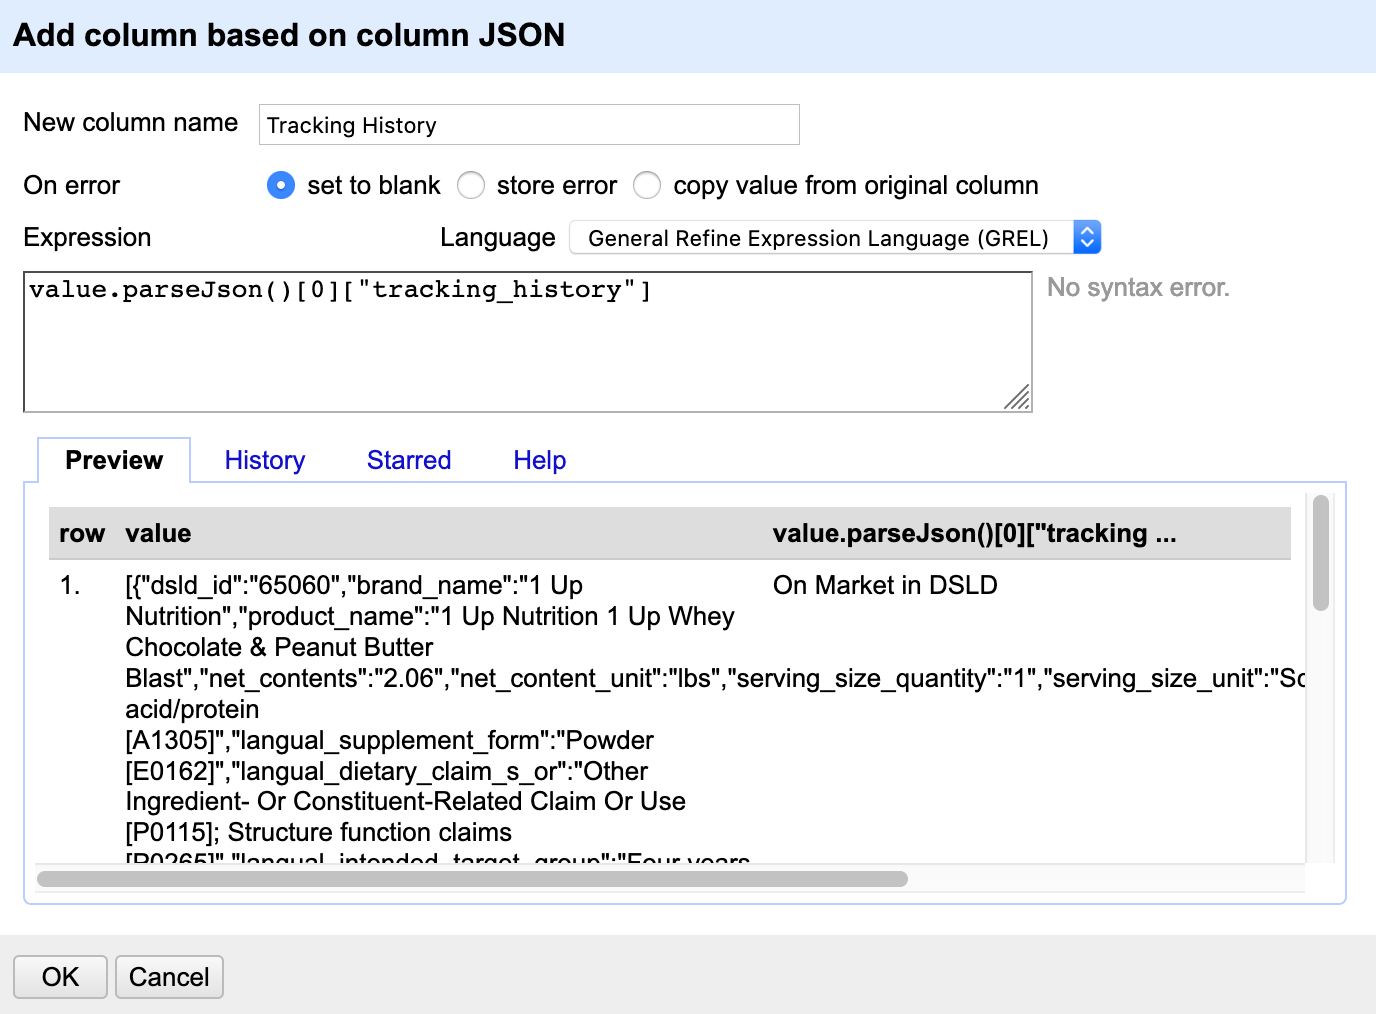
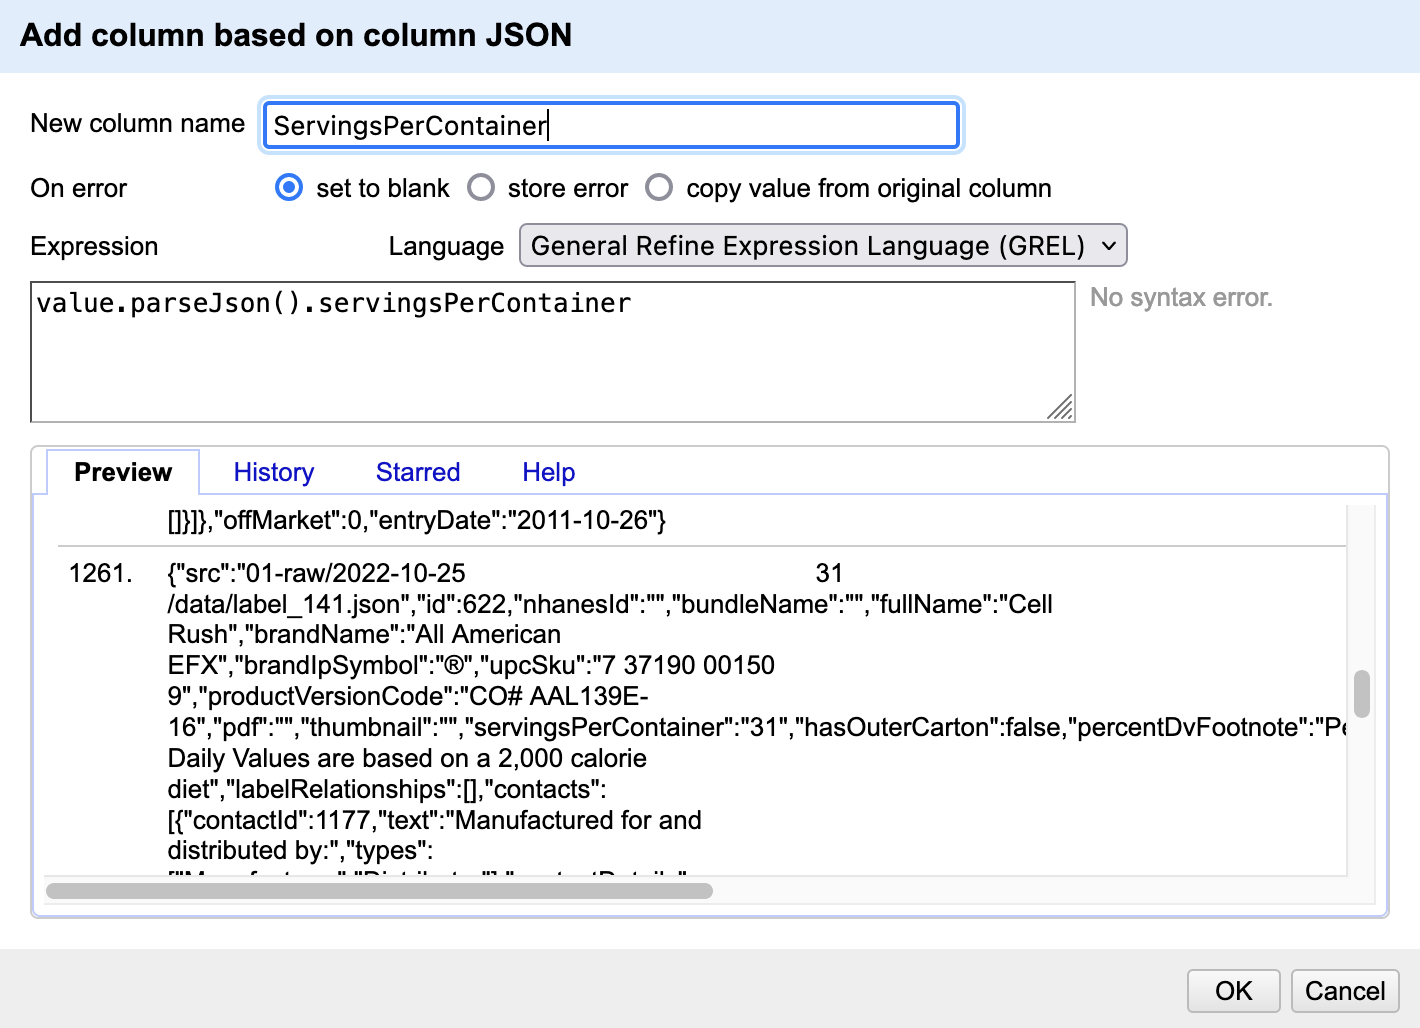
Added images and updated advanced instructions

diff --git a/docs/advanced-openrefine.html b/docs/advanced-openrefine.html
@@ -6,7 +6,7 @@
   <meta http-equiv="X-UA-Compatible" content="IE=edge" />
   <title>Chapter 4 Advanced OpenRefine | Introduction to OpenRefine</title>
   <meta name="description" content="Chapter 4 Advanced OpenRefine | Introduction to OpenRefine" />
-  <meta name="generator" content="bookdown 0.21 and GitBook 2.6.7" />
+  <meta name="generator" content="bookdown 0.24 and GitBook 2.6.7" />
 
   <meta property="og:title" content="Chapter 4 Advanced OpenRefine | Introduction to OpenRefine" />
   <meta property="og:type" content="book" />
@@ -24,7 +24,7 @@
 <meta name="author" content="Ariel Deardorff, Data Services Librarian, UCSF Library" />
 
 
-<meta name="date" content="2020-11-13" />
+<meta name="date" content="2023-02-27" />
 
   <meta name="viewport" content="width=device-width, initial-scale=1" />
   <meta name="apple-mobile-web-app-capable" content="yes" />
@@ -33,7 +33,9 @@
   
 <link rel="prev" href="basic-data-cleaning-with-openrefine.html"/>
 <link rel="next" href="exporting-cleaned-data-and-scripts.html"/>
-<script src="libs/jquery-2.2.3/jquery.min.js"></script>
+<script src="libs/header-attrs-2.11/header-attrs.js"></script>
+<script src="libs/jquery-3.6.0/jquery-3.6.0.min.js"></script>
+<script src="https://cdn.jsdelivr.net/npm/fuse.js@6.4.6/dist/fuse.min.js"></script>
 <link href="libs/gitbook-2.6.7/css/style.css" rel="stylesheet" />
 <link href="libs/gitbook-2.6.7/css/plugin-table.css" rel="stylesheet" />
 <link href="libs/gitbook-2.6.7/css/plugin-bookdown.css" rel="stylesheet" />
@@ -49,9 +51,9 @@
 
 
 
+<link href="libs/anchor-sections-1.0.1/anchor-sections.css" rel="stylesheet" />
+<script src="libs/anchor-sections-1.0.1/anchor-sections.js"></script>
 
-<link href="libs/anchor-sections-1.0/anchor-sections.css" rel="stylesheet" />
-<script src="libs/anchor-sections-1.0/anchor-sections.js"></script>
 
 
 
@@ -67,32 +69,36 @@
       <nav role="navigation">
 
 <ul class="summary">
-<li class="chapter" data-level="1" data-path="index.html"><a href="index.html"><i class="fa fa-check"></i><b>1</b> Welcome</a><ul>
-<li class="chapter" data-level="1.1" data-path="index.html"><a href="index.html#pre-class-prep"><i class="fa fa-check"></i><b>1.1</b> Pre-Class Prep</a></li>
-<li class="chapter" data-level="1.2" data-path="index.html"><a href="index.html#learning-objectives"><i class="fa fa-check"></i><b>1.2</b> Learning Objectives</a></li>
-<li class="chapter" data-level="1.3" data-path="index.html"><a href="index.html#class-data"><i class="fa fa-check"></i><b>1.3</b> Class Data</a></li>
-<li class="chapter" data-level="1.4" data-path="index.html"><a href="index.html#about-the-instructor"><i class="fa fa-check"></i><b>1.4</b> About the Instructor</a></li>
+<li><a href="index.html#welcome" id="toc-welcome"><span class="toc-section-number">1</span> Welcome</a>
+<ul>
+<li><a href="index.html#pre-class-prep" id="toc-pre-class-prep"><span class="toc-section-number">1.1</span> Pre-Class Prep</a></li>
+<li><a href="index.html#learning-objectives" id="toc-learning-objectives"><span class="toc-section-number">1.2</span> Learning Objectives</a></li>
+<li><a href="index.html#class-data" id="toc-class-data"><span class="toc-section-number">1.3</span> Class Data</a></li>
+<li><a href="index.html#about-the-instructor" id="toc-about-the-instructor"><span class="toc-section-number">1.4</span> About the Instructor</a></li>
 </ul></li>
-<li class="chapter" data-level="2" data-path="getting-to-know-our-data-and-tools.html"><a href="getting-to-know-our-data-and-tools.html"><i class="fa fa-check"></i><b>2</b> Getting to Know our Data and Tools</a><ul>
-<li class="chapter" data-level="2.1" data-path="getting-to-know-our-data-and-tools.html"><a href="getting-to-know-our-data-and-tools.html#what-is-openrefine"><i class="fa fa-check"></i><b>2.1</b> What is OpenRefine?</a></li>
-<li class="chapter" data-level="2.2" data-path="getting-to-know-our-data-and-tools.html"><a href="getting-to-know-our-data-and-tools.html#exploring-the-data"><i class="fa fa-check"></i><b>2.2</b> Exploring the Data</a></li>
-<li class="chapter" data-level="2.3" data-path="getting-to-know-our-data-and-tools.html"><a href="getting-to-know-our-data-and-tools.html#uploading-data-into-openrefine"><i class="fa fa-check"></i><b>2.3</b> Uploading Data Into OpenRefine</a></li>
-<li class="chapter" data-level="2.4" data-path="getting-to-know-our-data-and-tools.html"><a href="getting-to-know-our-data-and-tools.html#the-openrefine-interface"><i class="fa fa-check"></i><b>2.4</b> The OpenRefine Interface</a></li>
+<li><a href="getting-to-know-our-data-and-tools.html#getting-to-know-our-data-and-tools" id="toc-getting-to-know-our-data-and-tools"><span class="toc-section-number">2</span> Getting to Know our Data and Tools</a>
+<ul>
+<li><a href="getting-to-know-our-data-and-tools.html#what-is-openrefine" id="toc-what-is-openrefine"><span class="toc-section-number">2.1</span> What is OpenRefine?</a></li>
+<li><a href="getting-to-know-our-data-and-tools.html#exploring-the-data" id="toc-exploring-the-data"><span class="toc-section-number">2.2</span> Exploring the Data</a></li>
+<li><a href="getting-to-know-our-data-and-tools.html#uploading-data-into-openrefine" id="toc-uploading-data-into-openrefine"><span class="toc-section-number">2.3</span> Uploading Data Into OpenRefine</a></li>
+<li><a href="getting-to-know-our-data-and-tools.html#the-openrefine-interface" id="toc-the-openrefine-interface"><span class="toc-section-number">2.4</span> The OpenRefine Interface</a></li>
 </ul></li>
-<li class="chapter" data-level="3" data-path="basic-data-cleaning-with-openrefine.html"><a href="basic-data-cleaning-with-openrefine.html"><i class="fa fa-check"></i><b>3</b> Basic Data Cleaning with OpenRefine</a><ul>
-<li class="chapter" data-level="3.1" data-path="basic-data-cleaning-with-openrefine.html"><a href="basic-data-cleaning-with-openrefine.html#splitting-columns"><i class="fa fa-check"></i><b>3.1</b> Splitting Columns</a></li>
-<li class="chapter" data-level="3.2" data-path="basic-data-cleaning-with-openrefine.html"><a href="basic-data-cleaning-with-openrefine.html#undoredo"><i class="fa fa-check"></i><b>3.2</b> Undo/Redo</a></li>
-<li class="chapter" data-level="3.3" data-path="basic-data-cleaning-with-openrefine.html"><a href="basic-data-cleaning-with-openrefine.html#faceting-data"><i class="fa fa-check"></i><b>3.3</b> Faceting Data</a></li>
-<li class="chapter" data-level="3.4" data-path="basic-data-cleaning-with-openrefine.html"><a href="basic-data-cleaning-with-openrefine.html#trimming-whitespace-and-changing-to-titlecase"><i class="fa fa-check"></i><b>3.4</b> Trimming Whitespace and Changing to Titlecase</a></li>
-<li class="chapter" data-level="3.5" data-path="basic-data-cleaning-with-openrefine.html"><a href="basic-data-cleaning-with-openrefine.html#clustering-data"><i class="fa fa-check"></i><b>3.5</b> Clustering Data</a></li>
-<li class="chapter" data-level="3.6" data-path="basic-data-cleaning-with-openrefine.html"><a href="basic-data-cleaning-with-openrefine.html#sorting"><i class="fa fa-check"></i><b>3.6</b> Sorting</a></li>
+<li><a href="basic-data-cleaning-with-openrefine.html#basic-data-cleaning-with-openrefine" id="toc-basic-data-cleaning-with-openrefine"><span class="toc-section-number">3</span> Basic Data Cleaning with OpenRefine</a>
+<ul>
+<li><a href="basic-data-cleaning-with-openrefine.html#splitting-columns" id="toc-splitting-columns"><span class="toc-section-number">3.1</span> Splitting Columns</a></li>
+<li><a href="basic-data-cleaning-with-openrefine.html#undoredo" id="toc-undoredo"><span class="toc-section-number">3.2</span> Undo/Redo</a></li>
+<li><a href="basic-data-cleaning-with-openrefine.html#faceting-data" id="toc-faceting-data"><span class="toc-section-number">3.3</span> Faceting Data</a></li>
+<li><a href="basic-data-cleaning-with-openrefine.html#trimming-whitespace-and-changing-to-titlecase" id="toc-trimming-whitespace-and-changing-to-titlecase"><span class="toc-section-number">3.4</span> Trimming Whitespace and Changing to Titlecase</a></li>
+<li><a href="basic-data-cleaning-with-openrefine.html#clustering-data" id="toc-clustering-data"><span class="toc-section-number">3.5</span> Clustering Data</a></li>
+<li><a href="basic-data-cleaning-with-openrefine.html#sorting" id="toc-sorting"><span class="toc-section-number">3.6</span> Sorting</a></li>
 </ul></li>
-<li class="chapter" data-level="4" data-path="advanced-openrefine.html"><a href="advanced-openrefine.html"><i class="fa fa-check"></i><b>4</b> Advanced OpenRefine</a><ul>
-<li class="chapter" data-level="4.1" data-path="advanced-openrefine.html"><a href="advanced-openrefine.html#pulling-data-from-an-api"><i class="fa fa-check"></i><b>4.1</b> Pulling data from an API</a></li>
-<li class="chapter" data-level="4.2" data-path="advanced-openrefine.html"><a href="advanced-openrefine.html#extracting-the-data"><i class="fa fa-check"></i><b>4.2</b> Extracting the Data</a></li>
+<li><a href="advanced-openrefine.html#advanced-openrefine" id="toc-advanced-openrefine"><span class="toc-section-number">4</span> Advanced OpenRefine</a>
+<ul>
+<li><a href="advanced-openrefine.html#pulling-data-from-an-api" id="toc-pulling-data-from-an-api"><span class="toc-section-number">4.1</span> Pulling data from an API</a></li>
+<li><a href="advanced-openrefine.html#extracting-the-data" id="toc-extracting-the-data"><span class="toc-section-number">4.2</span> Extracting the Data</a></li>
 </ul></li>
-<li class="chapter" data-level="5" data-path="exporting-cleaned-data-and-scripts.html"><a href="exporting-cleaned-data-and-scripts.html"><i class="fa fa-check"></i><b>5</b> Exporting Cleaned Data and Scripts</a></li>
-<li class="chapter" data-level="6" data-path="recommended-resources-and-tutorials.html"><a href="recommended-resources-and-tutorials.html"><i class="fa fa-check"></i><b>6</b> Recommended Resources and Tutorials</a></li>
+<li><a href="exporting-cleaned-data-and-scripts.html#exporting-cleaned-data-and-scripts" id="toc-exporting-cleaned-data-and-scripts"><span class="toc-section-number">5</span> Exporting Cleaned Data and Scripts</a></li>
+<li><a href="recommended-resources-and-tutorials.html#recommended-resources-and-tutorials" id="toc-recommended-resources-and-tutorials"><span class="toc-section-number">6</span> Recommended Resources and Tutorials</a></li>
 </ul>
 
       </nav>
@@ -110,12 +116,12 @@
           <div class="page-inner">
 
             <section class="normal" id="section-">
-<div id="advanced-openrefine" class="section level1">
+<div id="advanced-openrefine" class="section level1" number="4">
 <h1><span class="header-section-number">Chapter 4</span> Advanced OpenRefine</h1>
 <p>In addition to the basic data cleaning features, OpenRefine has a variety of advanced features. Here we will go over how to pull in data from external sources and add it to our spreadsheet. To learn more about other advanced features, check out the <a href="https://arieldeardorff.github.io/OpenRefineWorkshop/recommended-resources-and-tutorials.html">Recommended Resources page</a>.</p>
-<div id="pulling-data-from-an-api" class="section level2">
+<div id="pulling-data-from-an-api" class="section level2" number="4.1">
 <h2><span class="header-section-number">4.1</span> Pulling data from an API</h2>
-<p>Our current spreadsheet is missing some data about the tracking history of these products. Luckily, this data is available in the National Library of Medicine's Dietary Supplements Label Database and we can access it via an application programming interface (API). To learn more about this particular database and API you can visit <a href="https://datadiscovery.nlm.nih.gov/Drugs-and-Supplements/Dietary-Supplements-Label-Database-DSLD-Product-In/wp6t-qxsk">the website</a>.</p>
+<p>Our current spreadsheet is missing some data about the tracking history of these products. Luckily, this data is available in the National Library of Medicine’s Dietary Supplements Label Database and we can access it via an application programming interface (API). To learn more about this particular database and API you can visit <a href="https://datadiscovery.nlm.nih.gov/Drugs-and-Supplements/Dietary-Supplements-Label-Database-DSLD-Product-In/wp6t-qxsk">the website</a>.</p>
 <ul>
 <li>Before we add a bunch of new data, let’s test our script on a couple of records. Go ahead and star two records using the little star icon on the far left of each record.
 <ul>
@@ -123,38 +129,29 @@
 </ul></li>
 <li>Now we want to pull new data from the database using the <code>DSLD ID</code> number. Under the <code>DSLD ID</code> column select &gt; <code>Edit column</code> &gt; <code>Add column by fetching URLs</code>
 <ul>
-<li>In the box enter: <code>&quot;https://datadiscovery.nlm.nih.gov/resource/wp6t-qxsk.json?dsld_id=&quot;+value</code> this is the URL of the API plus a stand-in for the ID number (the <code>+value</code>). You should see a preview of the URL with the ID at the end.</li>
+<li>In the box enter: <code>"https://api.ods.od.nih.gov/dsld/v9/label/"+value</code> this is the URL of the API plus a stand-in for the ID number (the <code>+value</code>). You should see a preview of the URL with the ID at the end.</li>
 </ul></li>
 </ul>
-<div class="figure">
-<img src="images/OpenRefine_API.png" />
-
-</div>
+<p><img src="images/OpenRefine_API.png" /></p>
 <ul>
-<li>Name the new column <code>JSON</code> and hit <code>OK</code>. It might take a minute or so to load but eventually we should get a new column called <code>JSON</code> with a paragraph of text in JSON format.</li>
+<li>Name the new column <code>JSON</code> and hit <code>OK</code>. It might take a minute or so to load but eventually we should get a new column called <code>JSON</code> with a (huge) paragraph of text in JSON format.</li>
 </ul>
 </div>
-<div id="extracting-the-data" class="section level2">
+<div id="extracting-the-data" class="section level2" number="4.2">
 <h2><span class="header-section-number">4.2</span> Extracting the Data</h2>
 <ul>
 <li>JSON, or JavaScript Object Notation is a text format for storing and sharing data, often in lists or dictionaries. We basically asked the NLM database to send us all the info they have for this ID. Now we need to extract the info we want and put it in a new column</li>
 <li>Under the <code>JSON</code> column select <code>Edit column</code> &gt; <code>Add column based on this column</code>
 <ul>
-<li>In the box write: <code>value.parseJson()[0][&quot;tracking_history&quot;]</code>. This is a GREL (google refine experssion language) command that tells OpenRefine to extract the relevant bit of the JSON data by pulling the first list of items [0] and then pulling the data that corresponds with the <code>Tracking history</code> segment. When you are done name this column <code>Tracking History</code> and hit <code>OK</code>. Now we should have a new column called &quot;Tracking History&quot; with the relevant info from the JSON text.</li>
+<li>In the box write: <code>value.parseJson().servingsPerContainer</code>. This is a GREL (google refine experssion language) command that tells OpenRefine to extract the relevant bit of the JSON data by pulling the data that corresponds with the <code>servingsPerContainer</code> segment. When you are done name this column <code>Servings Per Container</code> and hit <code>OK</code>. Now we should have a new column called “Servings Per Container” with the relevant info from the JSON text.</li>
 </ul></li>
 <li>You can learn more about parsing JSON in this UCSF library class: <a href="https://courses.ucsf.edu/course/view.php?id=5247">Reading Data from an API with Python and JSON</a>.</li>
 </ul>
-<div class="figure">
-<img src="images/OpenRefine_ParseJSON.png" />
-
-</div>
-<div class="figure">
-<img src="images/OpenRefine_FinalResult.png" />
-
-</div>
+<p><img src="images/OpenRefine_ParseJSON.png" /></p>
+<p><img src="images/OpenRefine_FinalResult.png" /></p>
 <ul>
 <li>There are a ton of ways to add more info to OpenRefine. In addition to adding new data you can also reconcile the data you have by pulling in official lists of names/businesses/authors from a site like Wikidata (more info in the resources section at the end).</li>
-<li><strong>Challenge</strong>: add a new column containing the <code>database</code> info from the JSON. Hint: look at the <code>History</code> tab in your GREL workspace to see your previous commands.</li>
+<li><strong>Challenge</strong>: add a new column containing the <code>upcSku</code> info from the JSON. Hint: look at the <code>History</code> tab in your GREL workspace to see your previous commands.</li>
 </ul>
 
 </div>
@@ -169,7 +166,6 @@
     </div>
   </div>
 <script src="libs/gitbook-2.6.7/js/app.min.js"></script>
-<script src="libs/gitbook-2.6.7/js/lunr.js"></script>
 <script src="libs/gitbook-2.6.7/js/clipboard.min.js"></script>
 <script src="libs/gitbook-2.6.7/js/plugin-search.js"></script>
 <script src="libs/gitbook-2.6.7/js/plugin-sharing.js"></script>
@@ -188,6 +184,7 @@ gitbook.start({
 "weibo": false,
 "instapaper": false,
 "vk": false,
+"whatsapp": false,
 "all": ["facebook", "twitter", "linkedin", "weibo", "instapaper"]
 },
 "fontsettings": {
@@ -208,6 +205,10 @@ gitbook.start({
 "text": null
 },
 "download": null,
+"search": {
+"engine": "fuse",
+"options": null
+},
 "toc": {
 "collapse": "subsection"
 }
